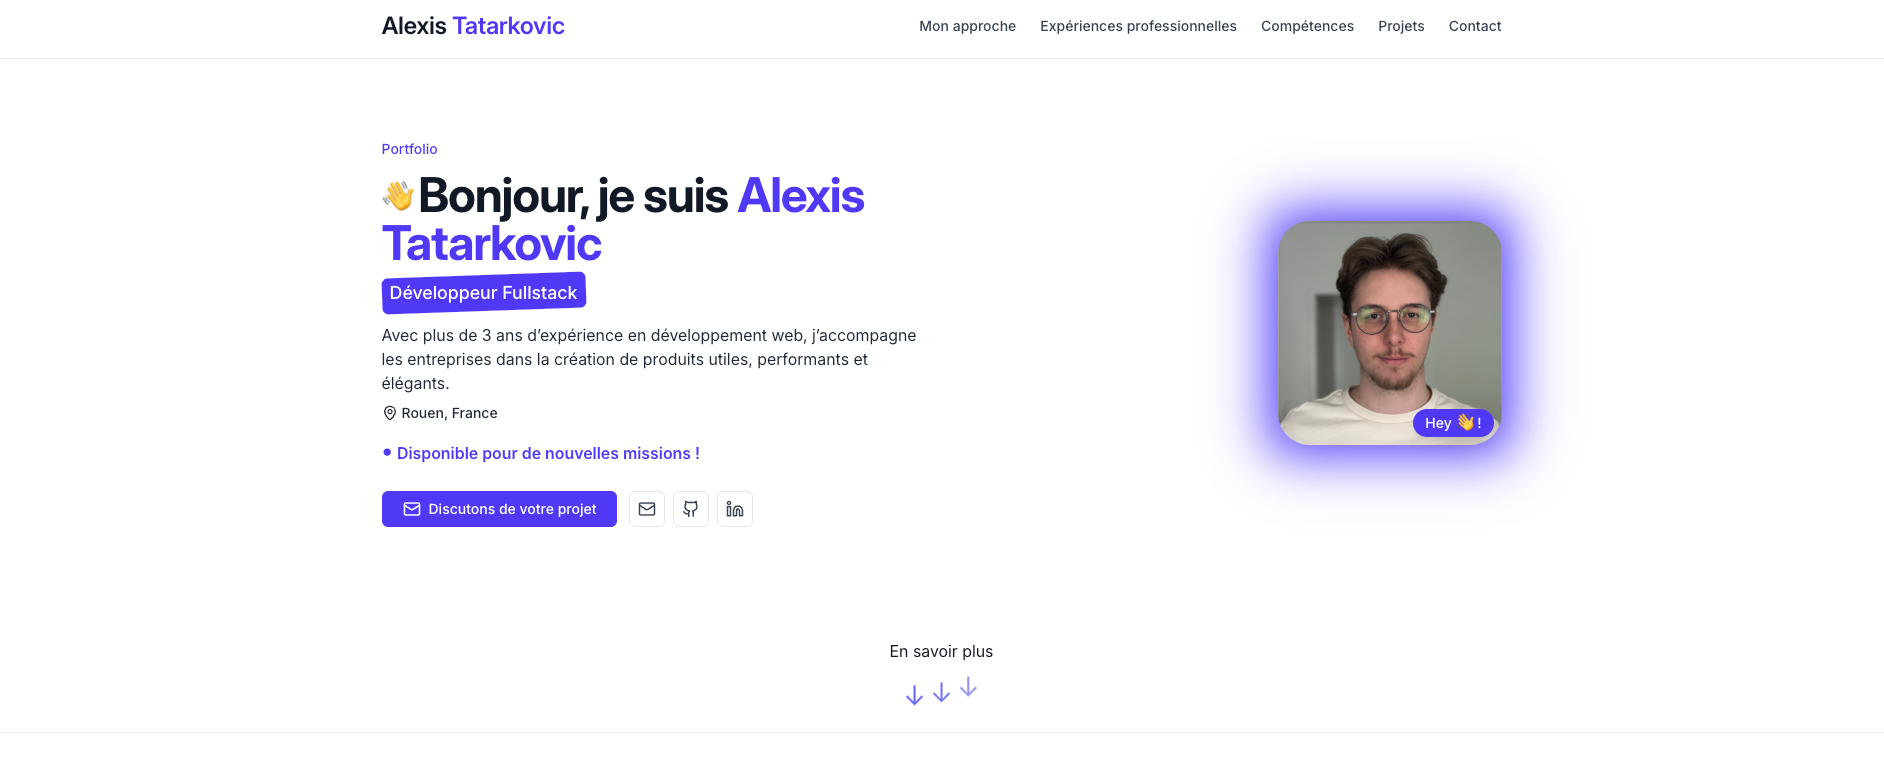
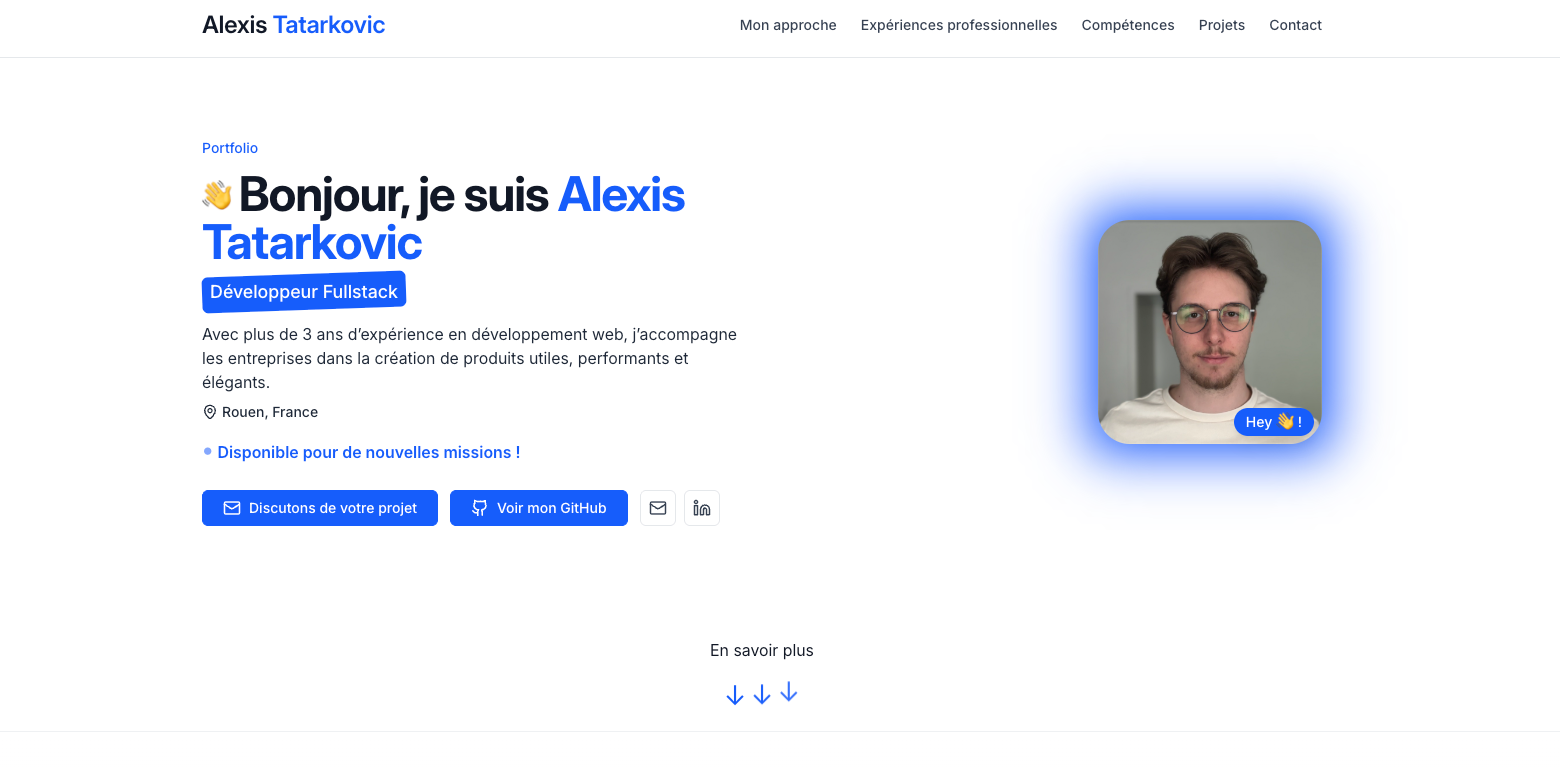
Changed purple for blue

diff --git a/src/components/sections/Projects.tsx b/src/components/sections/Projects.tsx
@@ -70,7 +70,7 @@ export default function Projects({ items, title = "Projets" }: ProjectsProps) {
       <div className="mx-auto max-w-6xl px-4 py-12 md:py-16">
         <div className="mb-6 flex flex-col justify-between gap-4 sm:mb-8 sm:flex-row sm:items-center">
           <div className="flex items-center gap-2">
-            <div className="inline-flex h-9 w-9 items-center justify-center rounded-md bg-indigo-600 text-white">
+            <div className="inline-flex h-9 w-9 items-center justify-center rounded-md bg-blue-600 text-white">
               <Layers size={18} />
             </div>
             <h2 className="text-2xl font-bold tracking-tight">{title}</h2>
@@ -104,7 +104,7 @@ export default function Projects({ items, title = "Projets" }: ProjectsProps) {
                     className={[
                       "hover-smooth inline-flex items-center rounded-md border px-2.5 py-1.5 text-sm font-medium cursor-pointer",
                       active
-                        ? "border-indigo-600 bg-indigo-600 text-white hover:bg-indigo-500"
+                        ? "border-blue-600 bg-blue-600 text-white hover:bg-blue-700 hover:border-blue-700"
                         : "border-gray-200 bg-white text-gray-700 hover:bg-gray-50",
                     ].join(" ")}
                   >
@@ -115,7 +115,7 @@ export default function Projects({ items, title = "Projets" }: ProjectsProps) {
               <button
                 type="button"
                 onClick={reset}
-                className="hover-smooth inline-flex items-center rounded-md border px-2.5 py-1.5 text-sm font-medium text-white cursor-pointer bg-indigo-600 border-indigo-600 hover:bg-indigo-500"
+                className="hover-smooth inline-flex items-center rounded-md border px-2.5 py-1.5 text-sm font-medium text-white cursor-pointer bg-blue-600 border-blue-600 hover:bg-blue-700 hover:border-blue-700"
               >
                 <RotateCcw size={16} className="mr-1" /> Réinitialiser
               </button>
@@ -132,7 +132,7 @@ export default function Projects({ items, title = "Projets" }: ProjectsProps) {
             filtered.map((p) => (
               <Card
                 key={p.id}
-                className="flex flex-col group border border-gray-200 bg-white/90 backdrop-blur-sm transition-transform duration-500 ease-[cubic-bezier(0.22,1,0.36,1)] hover:scale-105 hover:shadow-2xl hover:shadow-gray-800/40 hover:border-indigo-300 hover:bg-white cursor-pointer"
+                className="flex flex-col group border border-gray-200 bg-white/90 backdrop-blur-sm transition-transform duration-500 ease-[cubic-bezier(0.22,1,0.36,1)] hover:scale-105 hover:shadow-2xl hover:shadow-gray-800/40 hover:border-blue-300 hover:bg-white cursor-pointer"
                 onClick={() => setSelectedProject(p)}
               >
                 {/* Image */}
@@ -147,7 +147,7 @@ export default function Projects({ items, title = "Projets" }: ProjectsProps) {
                       />
                       <button
                         type="button"
-                        className="cursor-pointer absolute bottom-2 right-2 z-10 rounded-full bg-white/80 px-2 py-1 text-xs font-semibold text-indigo-700 shadow hover:bg-indigo-600 hover:text-white transition"
+                        className="cursor-pointer absolute bottom-2 right-2 z-10 rounded-full bg-white/80 px-2 py-1 text-xs font-semibold text-blue-700 shadow hover:bg-blue-600 hover:text-white transition"
                         onClick={(e) => {
                           e.stopPropagation();
                           setSelectedImage(p.imageSrc as string);

diff --git a/src/components/sections/Hero.tsx b/src/components/sections/Hero.tsx
@@ -38,7 +38,7 @@ export default function Hero({
     <section id="accueil" className="border-b border-gray-200/60">
       <div className="mx-auto grid max-w-6xl grid-cols-1 items-center gap-10 px-4 py-12 md:grid-cols-2 md:py-20">
         <div>
-          <p className="text-sm font-medium text-indigo-600">Portfolio</p>
+          <p className="text-sm font-medium text-blue-600">Portfolio</p>
           <h1 className="relative mt-3 text-3xl font-bold tracking-tight sm:text-4xl md:text-5xl">
             <span
               className="inline-block origin-bottom animate-wave text-3xl mr-2 align-middle relative -top-1"
@@ -48,14 +48,14 @@ export default function Hero({
               👋
             </span>
             Bonjour, je suis{" "}
-            <span className="text-indigo-600">
+            <span className="text-blue-600">
               {first} {last}
             </span>
           </h1>
           <p className="relative mt-3 text-lg font-medium text-gray-800">
             <span className="relative inline-block">
               <span
-                className="absolute left-0 right-0 top-1/2 -translate-y-1/2 -z-10 bg-indigo-600 opacity-100 rotate-[-2deg] h-[36px] w-full rounded-md backdrop-blur-none"
+                className="absolute left-0 right-0 top-1/2 -translate-y-1/2 -z-10 bg-blue-600 opacity-100 rotate-[-2deg] h-[36px] w-full rounded-md backdrop-blur-none"
                 aria-hidden="true"
               />
               <span className="relative px-2 text-white">{title}</span>
@@ -67,7 +67,7 @@ export default function Hero({
             {location}
           </div>
           <div className="mt-4 flex items-center gap-4">
-            <span className="flex items-center text-indigo-600 font-semibold">
+            <span className="flex items-center text-blue-600 font-semibold">
               <span
                 className="animate-blink mr-1 mb-1 text-2xl leading-none"
                 style={{ fontSize: "1.5em" }}

diff --git a/src/components/sections/Timeline.tsx b/src/components/sections/Timeline.tsx
@@ -28,7 +28,7 @@ export default function Timeline({
     <section id={sectionId} className="border-b border-gray-200/60">
       <div className="mx-auto max-w-6xl px-4 py-12 md:py-16">
         <div className="mb-8 flex items-center gap-2">
-          <div className="inline-flex h-9 w-9 items-center justify-center rounded-md bg-indigo-600 text-white text-lg">
+          <div className="inline-flex h-9 w-9 items-center justify-center rounded-md bg-blue-600 text-white text-lg">
             {icon ? icon : <Briefcase size={18} />}
           </div>
           <h2 className="text-2xl font-bold tracking-tight">{title}</h2>
@@ -38,7 +38,7 @@ export default function Timeline({
           {items.map((it) => (
             <li key={it.id} className="mb-10 ms-6">
               {/* Dot */}
-              <span className="absolute -start-1.5 mt-2 flex h-3 w-3 items-center justify-center rounded-full border border-white bg-indigo-600 ring-2 ring-indigo-200" />
+              <span className="absolute -start-1.5 mt-2 flex h-3 w-3 items-center justify-center rounded-full border border-white bg-blue-600 ring-2 ring-blue-200" />
 
               {/* Content */}
               <div className="grid gap-1 sm:grid-cols-[1fr_auto] sm:items-baseline">
@@ -81,7 +81,7 @@ export default function Timeline({
                     href={it.link}
                     target="_blank"
                     rel="noreferrer"
-                    className="hover-smooth inline-flex items-center gap-1 text-sm font-medium text-indigo-600 hover:text-indigo-500"
+                    className="hover-smooth inline-flex items-center gap-1 text-sm font-medium text-blue-600 hover:text-blue-500"
                   >
                     En savoir plus
                     <svg

diff --git a/src/components/sections/Skills.tsx b/src/components/sections/Skills.tsx
@@ -11,7 +11,7 @@ export default function Skills() {
       <div className="mx-auto max-w-6xl px-4 py-12 md:py-16">
         <div className="mb-8 flex items-center gap-2">
           <div className="flex items-center gap-2">
-            <div className="inline-flex h-9 w-9 items-center justify-center rounded-md bg-indigo-600 text-white">
+            <div className="inline-flex h-9 w-9 items-center justify-center rounded-md bg-blue-600 text-white">
               <Package size={18} />
             </div>
             <h2 className="text-2xl font-bold tracking-tight">Compétences</h2>
@@ -21,7 +21,7 @@ export default function Skills() {
         <div className="md:col-span-3 grid grid-cols-1 md:grid-cols-3 gap-6">
           <Card className="p-6 flex flex-col items-center transition-transform duration-200 hover:scale-105 hover:shadow-lg">
             <Code
-              className="text-indigo-500 mb-2 transition-transform duration-300 group-hover:scale-110 group-hover:rotate-6"
+              className="text-blue-500 mb-2 transition-transform duration-300 group-hover:scale-110 group-hover:rotate-6"
               size={32}
             />
             <div className="font-medium text-gray-800 mb-2 text-lg">
@@ -32,7 +32,7 @@ export default function Skills() {
                 (lang) => (
                   <span
                     key={lang}
-                    className="bg-indigo-100 text-indigo-700 rounded px-3 py-1 text-sm font-semibold"
+                    className="bg-blue-100 text-blue-700 rounded px-3 py-1 text-sm font-semibold"
                   >
                     {lang}
                   </span>

diff --git a/src/components/sections/Expertise.tsx b/src/components/sections/Expertise.tsx
@@ -5,7 +5,7 @@ import { expertiseText, expertiseSteps } from "../../data/expertise";
 
 const iconMap = {
   lightbulb: <Lightbulb className="text-yellow-500" size={28} />,
-  layers: <Layers className="text-indigo-500" size={28} />,
+  layers: <Layers className="text-blue-500" size={28} />,
   rocket: <Rocket className="text-green-500" size={28} />,
   users: <Users className="text-pink-500" size={28} />,
 };
@@ -16,7 +16,7 @@ const Expertise = () => (
     className="py-16 bg-gradient-to-b from-white to-gray-50 border-b border-gray-200/60"
   >
     <div className="container mx-auto px-4 max-w-4xl">
-      <h2 className="text-3xl md:text-4xl font-bold text-center mb-4 text-indigo-700 drop-shadow">
+      <h2 className="text-3xl md:text-4xl font-bold text-center mb-4 text-blue-600 drop-shadow">
         Mon approche pour votre réussite
       </h2>
       <p className="mb-10 text-lg text-center text-gray-700 max-w-2xl mx-auto">
@@ -26,7 +26,7 @@ const Expertise = () => (
         {expertiseSteps.map((step, i) => (
           <Card
             key={step.title}
-            className="flex flex-col items-center p-8 h-full shadow-lg hover:shadow-indigo-200 transition-transform duration-300 hover:-translate-y-2 hover:scale-105 group"
+            className="flex flex-col items-center p-8 h-full shadow-lg hover:shadow-blue-200 transition-transform duration-300 hover:-translate-y-2 hover:scale-105 group"
           >
             <div
               className="mb-3 group-hover:scale-110 group-hover:rotate-6 transition-transform duration-300"

diff --git a/src/components/ui/LearnMore.tsx b/src/components/ui/LearnMore.tsx
@@ -27,13 +27,22 @@ export default function LearnMore({
     >
       <span className="learn-more-blink">En savoir plus</span>
       <span className="learn-more-arrows-row">
-        <span className="learn-more-arrows" style={{ animationDelay: "0ms" }}>
+        <span
+          className="learn-more-arrows text-blue-600"
+          style={{ animationDelay: "0ms" }}
+        >
           ↓
         </span>
-        <span className="learn-more-arrows" style={{ animationDelay: "180ms" }}>
+        <span
+          className="learn-more-arrows text-blue-600"
+          style={{ animationDelay: "180ms" }}
+        >
           ↓
         </span>
-        <span className="learn-more-arrows" style={{ animationDelay: "360ms" }}>
+        <span
+          className="learn-more-arrows text-blue-600"
+          style={{ animationDelay: "360ms" }}
+        >
           ↓
         </span>
       </span>

diff --git a/src/components/ui/ProfileImage.tsx b/src/components/ui/ProfileImage.tsx
@@ -17,7 +17,7 @@ export default function ProfileImage({
       }
     >
       <div
-        className="absolute inset-0 z-0 rounded-2xl bg-indigo-600 blur-xl opacity-100 scale-110"
+        className="absolute inset-0 z-0 rounded-2xl bg-blue-600 blur-xl opacity-100 scale-110"
         aria-hidden="true"
       />
       <div className="relative z-10 h-full w-full overflow-hidden rounded-4xl">
@@ -29,7 +29,7 @@ export default function ProfileImage({
         />
         <div className="pointer-events-none absolute inset-0 ring-1 ring-inset ring-white/10" />
       </div>
-      <p className="absolute bottom-0 right-0 z-20 mb-2 mr-2 rounded-full bg-indigo-600 px-3 py-1 text-sm font-medium text-white shadow-lg">
+      <p className="absolute bottom-0 right-0 z-20 mb-2 mr-2 rounded-full bg-blue-600 px-3 py-1 text-sm font-medium text-white shadow-lg">
         Hey 👋 !
       </p>
     </div>

diff --git a/src/components/ui/projects/ProjectDescription.tsx b/src/components/ui/projects/ProjectDescription.tsx
@@ -28,7 +28,7 @@ export default function ProjectDescription({
         <div className="mt-2">
           <button
             type="button"
-            className="cursor-pointer inline-flex items-center gap-1 rounded-full border border-indigo-200 bg-indigo-50 px-2 py-0.5 text-xs font-semibold text-indigo-700 shadow-sm transition hover:bg-indigo-600 hover:text-white hover:border-indigo-400 focus:outline-none focus:ring-2 focus:ring-indigo-300"
+            className="cursor-pointer inline-flex items-center gap-1 rounded-full border border-blue-200 bg-blue-50 px-2 py-0.5 text-xs font-semibold text-blue-700 shadow-sm transition hover:bg-blue-600 hover:text-white hover:border-blue-400 focus:outline-none focus:ring-2 focus:ring-blue-300"
             onClick={(e) => {
               e.stopPropagation();
               setExpanded((v) => !v);

diff --git a/src/components/ui/Button.tsx b/src/components/ui/Button.tsx
@@ -28,13 +28,12 @@ export default function Button({
 
   if (variant === "primary") {
     variantClass =
-      "bg-indigo-600 text-white border border-indigo-600 hover:bg-indigo-500 hover:text-white px-5 h-9 hover:scale-105";
+      "bg-blue-600 text-white border border-blue-600 hover:bg-blue-700 hover:border-blue-700 hover:text-white px-5 h-9 hover:scale-105";
   } else if (variant === "icon") {
     variantClass =
       "h-9 w-9 justify-center rounded-md border border-gray-200 bg-white text-gray-700 hover:bg-gray-50 p-0";
   } else if (variant === "footer") {
-    variantClass =
-      "bg-transparent text-gray-600 hover:text-indigo-600 px-2 py-1";
+    variantClass = "bg-transparent text-gray-600 hover:text-blue-600 px-2 py-1";
   } else {
     // secondary
     variantClass =

diff --git a/src/components/ui/projects/ProjectModal.tsx b/src/components/ui/projects/ProjectModal.tsx
@@ -36,7 +36,7 @@ export default function ProjectModal({ project, onClose }: ProjectModalProps) {
       >
         <button
           ref={closeBtnRef}
-          className="absolute top-2 right-2 z-10 rounded-full bg-white/90 p-2 hover:bg-indigo-600 hover:text-white text-indigo-700 transition cursor-pointer"
+          className="absolute top-2 right-2 z-10 rounded-full bg-white/90 p-2 hover:bg-blue-600 hover:text-white text-blue-700 transition cursor-pointer"
           onClick={onClose}
           aria-label="Fermer la fiche projet"
           title="Fermer la fiche projet"

diff --git a/src/components/sections/Contact.tsx b/src/components/sections/Contact.tsx
@@ -37,7 +37,7 @@ export default function Contact({
   return (
     <section id="contact" className="border-b border-gray-200/60">
       <div className="mx-auto max-w-6xl px-4 py-16 text-center md:py-24">
-        <div className="mx-auto inline-flex h-12 w-12 items-center justify-center rounded-full bg-indigo-600 text-white">
+        <div className="mx-auto inline-flex h-12 w-12 items-center justify-center rounded-full bg-blue-600 text-white">
           <Mail size={20} />
         </div>
         <h2 className="mt-6 text-2xl font-bold tracking-tight sm:text-3xl">

diff --git a/src/components/ui/projects/ImageModal.tsx b/src/components/ui/projects/ImageModal.tsx
@@ -35,7 +35,7 @@ export default function ImageModal({
       >
         <button
           ref={closeBtnRef}
-          className="absolute top-2 right-2 z-10 rounded-full bg-white/90 p-2 hover:bg-indigo-600 hover:text-white text-indigo-700 transition cursor-pointer"
+          className="absolute top-2 right-2 z-10 rounded-full bg-white/90 p-2 hover:bg-blue-600 hover:text-white text-blue-700 transition cursor-pointer"
           onClick={onClose}
           aria-label="Fermer l’aperçu"
           title="Fermer l’aperçu"
